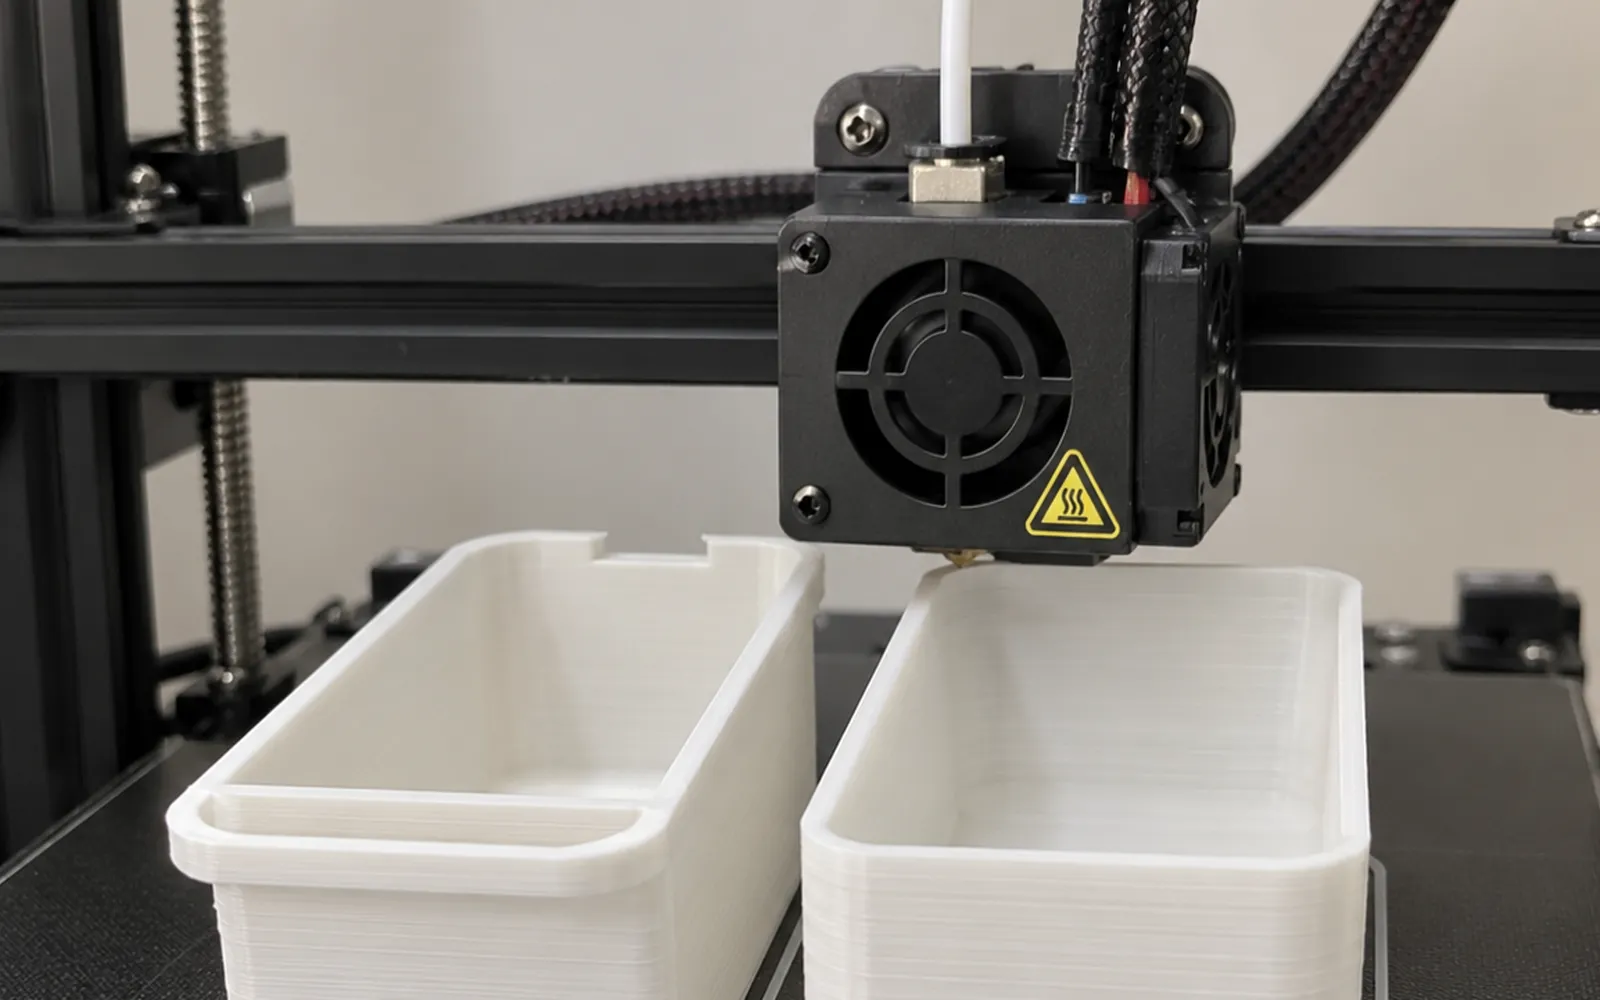
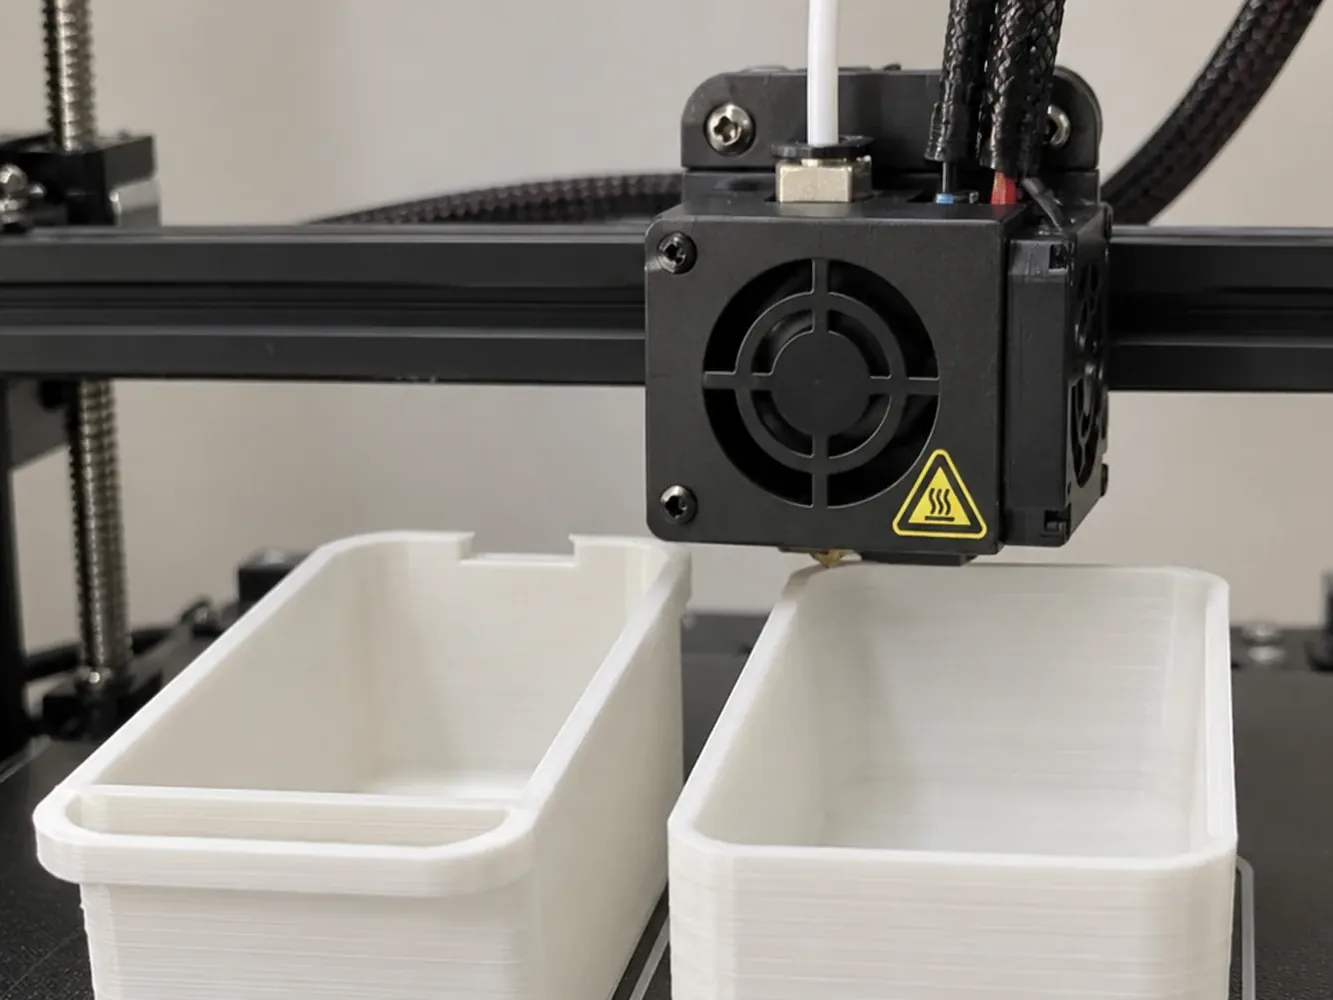
Dokumentasi: semua bingkai seragam 4/3

diff --git a/app/components/sections/DocGallery.vue b/app/components/sections/DocGallery.vue
@@ -3,14 +3,14 @@ import DokPost from '~/components/DokPost.vue'
 import DokRoute from '~/components/DokRoute.vue'
 
 const stops: Array<{ src: string; alt: string; label: string; spec?: string; ratio: string }> = [
-  { src: '/photos/gt-expo.webp', alt: 'Founder menjelaskan produk GrowMate ke pengunjung stan', label: 'Edukasi pengunjung di stan pameran', ratio: '16 / 9' },
+  { src: '/photos/gt-expo.webp', alt: 'Founder melayani pengunjung di stan bazar GrowMate', label: 'Edukasi pengunjung di stan bazar', ratio: '4 / 3' },
   { src: '/photos/gt-mulyo.webp', alt: 'Penandatanganan dokumen konsinyasi bersama Mulyo Tani', label: 'Penandatanganan konsinyasi Mulyo Tani', ratio: '4 / 3' },
   { src: '/photos/mitra-matra.webp', alt: 'Penandatanganan kemitraan produksi bersama Matra', label: 'Kemitraan produksi Matra 3D', ratio: '4 / 3' },
   { src: '/photos/mitra-toolsku.webp', alt: 'Penandatanganan kemitraan fabrikasi bersama Toolsku', label: 'Kemitraan fabrikasi Toolsku', ratio: '4 / 3' },
-  { src: '/photos/prod-solder.webp', alt: 'Penyolderan dan perakitan unit GrowMate oleh founder', label: 'Perakitan dan penyolderan unit', ratio: '16 / 9' },
-  { src: '/photos/dok-printer.webp', alt: 'Printer 3D mencetak bodi putih GrowMate', label: 'Cetak bodi dengan printer 3D', ratio: '16 / 10' },
-  { src: '/photos/dok-pengguna.webp', alt: 'Pengguna memegang Pods dengan grow light', label: 'Pods di tangan pengguna', ratio: '16 / 10' },
-  { src: '/photos/dok-demo.webp', alt: 'Demo unit GrowMate ke pengunjung', label: 'Demo unit ke pengunjung', ratio: '16 / 10' },
+  { src: '/photos/prod-solder.webp', alt: 'Penyolderan dan perakitan unit GrowMate oleh founder', label: 'Perakitan dan penyolderan unit', ratio: '4 / 3' },
+  { src: '/photos/dok-printer.webp', alt: 'Printer 3D mencetak bodi putih GrowMate', label: 'Cetak bodi dengan printer 3D', ratio: '4 / 3' },
+  { src: '/photos/dok-pengguna.webp', alt: 'Pengguna memegang Pods dengan grow light', label: 'Pods di tangan pengguna', ratio: '4 / 3' },
+  { src: '/photos/dok-demo.webp', alt: 'Demo unit GrowMate ke pengunjung', label: 'Demo unit ke pengunjung', ratio: '4 / 3' },
 ]
 
 const tilts = [-1.2, 0.8, -0.6, 1, -0.9, 0.5, -0.7, 0.9]
